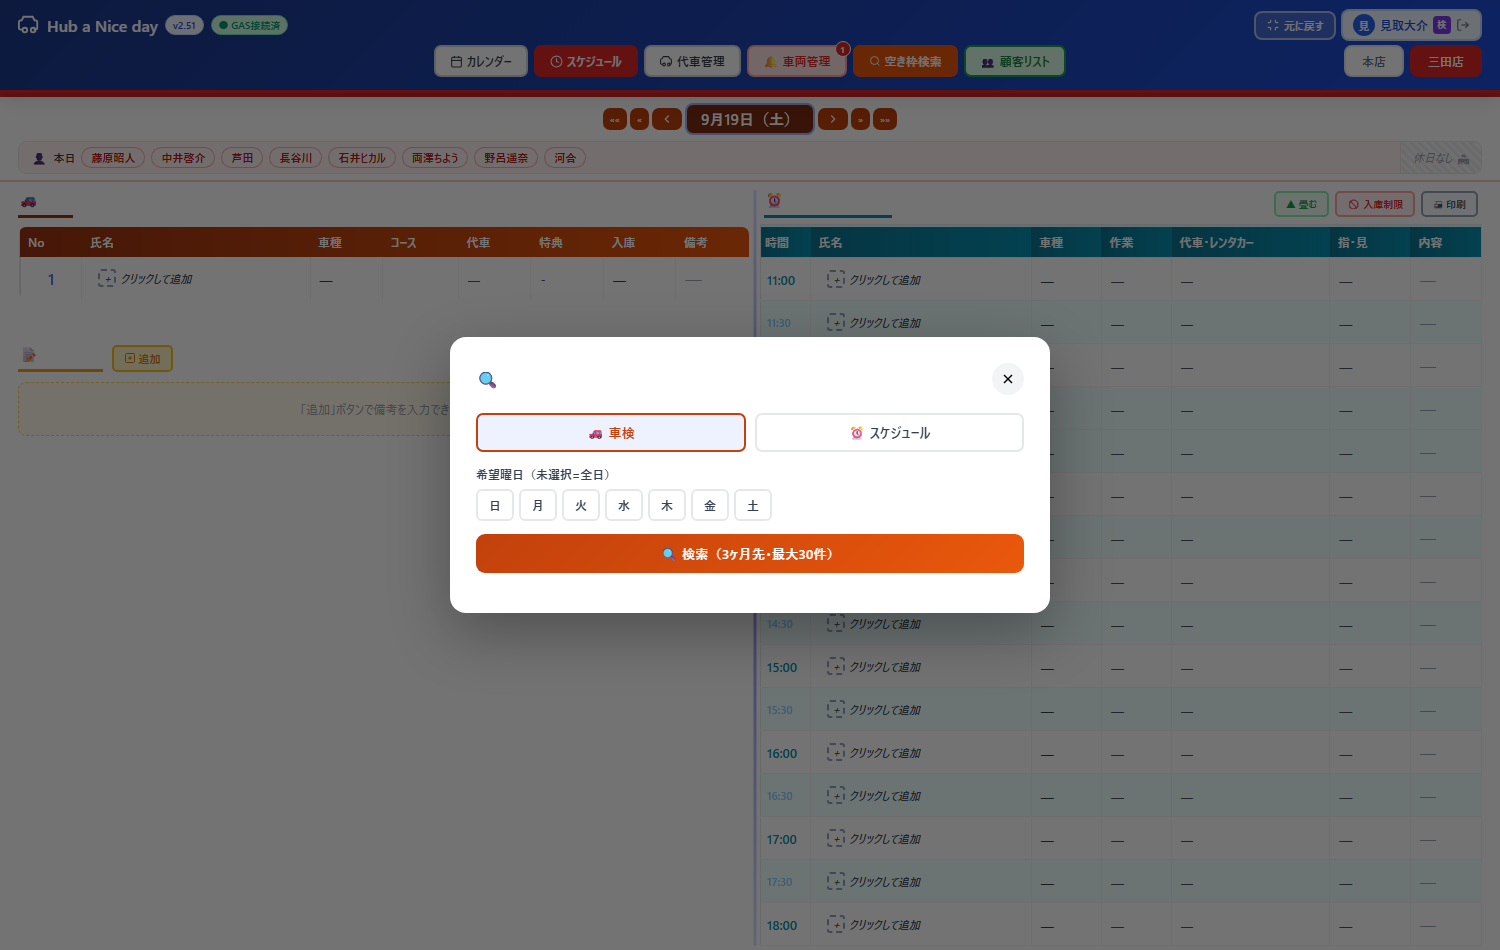
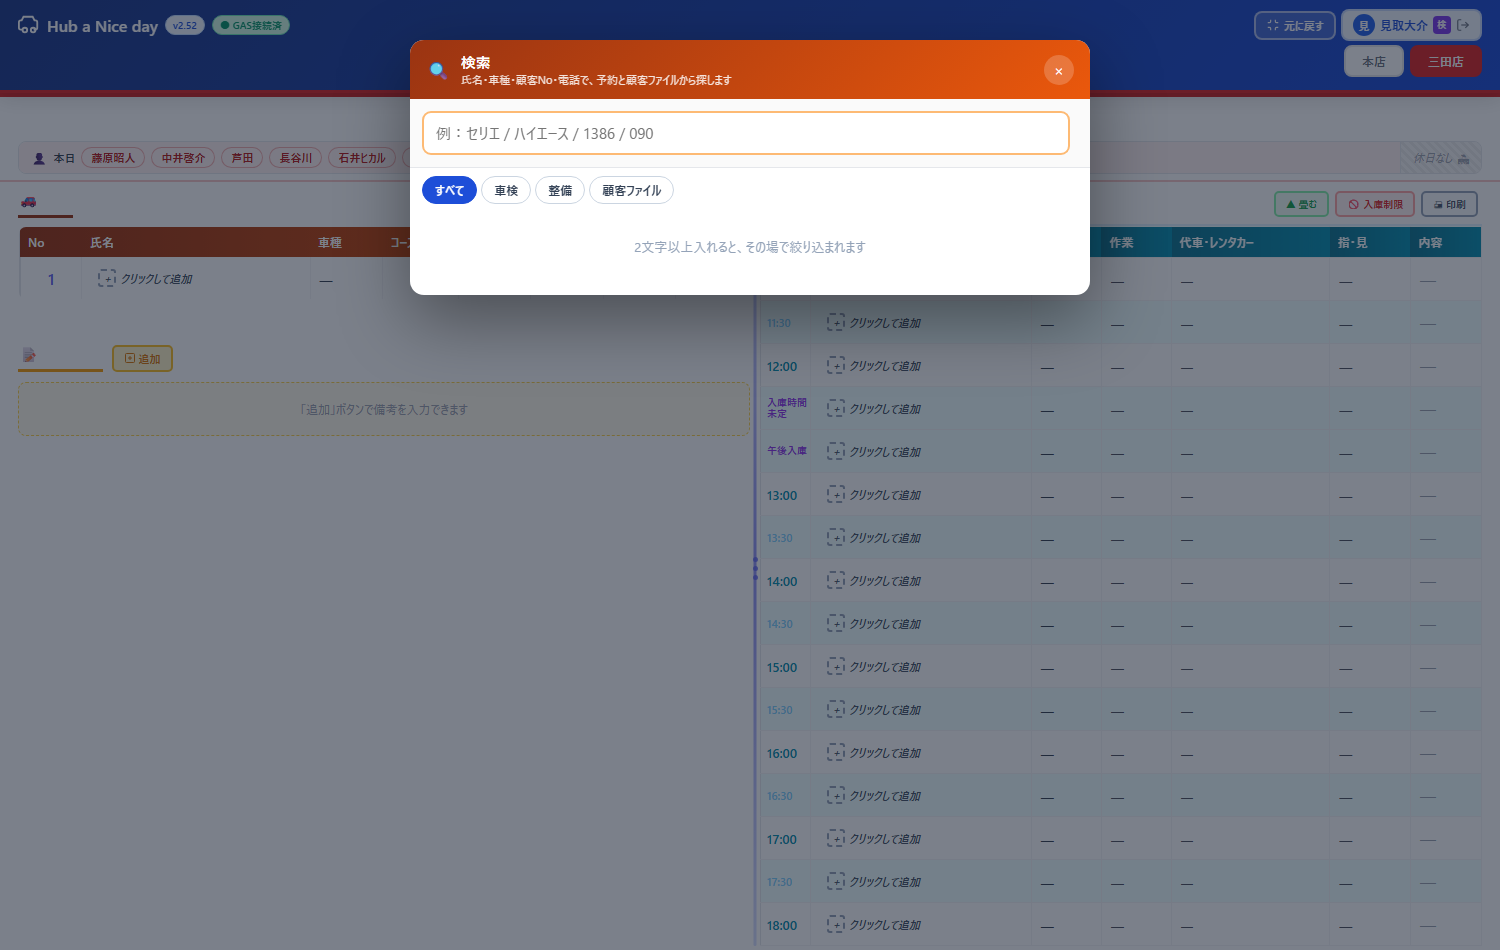
smoke_main: 空き枠検索→検索

Changed region(s): [[0.2453, 0.0305, 0.736, 0.7326], [0.1533, 0.0, 0.184, 0.0305]]

diff --git a/smoke_main.js b/smoke_main.js
@@ -114,7 +114,7 @@ async function loadProdStore() {
   await page.goto(`http://127.0.0.1:${PORT}/index_main.html`, { waitUntil: 'domcontentloaded' });
   await page.waitForTimeout(15000);
   await checkPage(page, '起動直後');
-  for (const view of ['カレンダー', 'スケジュール', '代車管理', '車両管理', '空き枠検索']) {
+  for (const view of ['カレンダー', 'スケジュール', '代車管理', '車両管理', '検索']) {
     try {
       // 代車管理など特殊ビューに遷移した後もナビを確実に押せるよう evaluate でクリック
       const ok = await page.evaluate((v) => {
